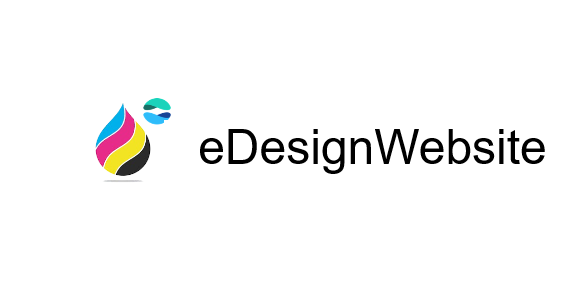
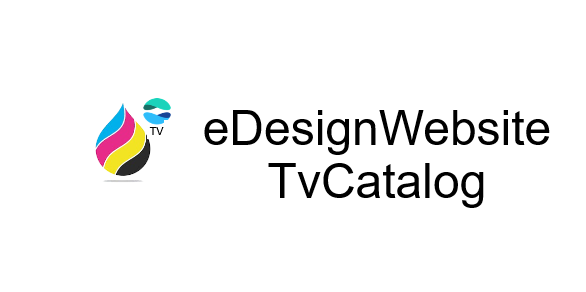
[UPD]

Changed region(s): [[0.3379, 0.3699, 0.9522, 0.7089], [0.2457, 0.4315, 0.2765, 0.4623]]

diff --git a/e_design_website_tv_catalog/static/description/index.html b/e_design_website_tv_catalog/static/description/index.html
@@ -3,11 +3,11 @@
         <div class="row align-items-center p-3">
             <div class="col-md-8">
                 <h1 class="display-4 fw-bold mb-3 text-white">
-                    <img src="icon.png" alt="eWebsiteDesign" class="img-fluid  rounded-circle me-3 bg-light" style="width: 60px; height: 60px; background: white; padding: 8px;">
-                    eWebsiteDesign
+                    <img src="icon.png" alt="eWebsiteDesignTvCatalog" class="img-fluid  rounded-circle me-3 bg-light" style="width: 60px; height: 60px; background: white; padding: 8px;">
+                    eWebsiteDesignTvCatalog
                 </h1>
                 <p class="lead mb-4">
-                    Publishes your design catalog to the public website, enabling customers to browse and search available designs
+                    Publishes a static page for show a dinamic data from designs
                 </p>
             </div>
             <div class="col-md-4 text-center">
@@ -27,70 +27,20 @@
                     <div class="row h-100 p-2">
                         <div class="card p-0">
                             <div class="row p-3">
-                                <h3 class="card-title fw-bold">Catalog Design</h3>
-                                <p class="card-text small text-muted">The catalog includes live search, category filtering, and an interactive image gallery for each design.</p>
-                            </div>
-                            <hr class="mt-0"/>
-                            <div class="row justify-content-start p-1">
-                                <div class="col-xl-6">
-                                    <img src="assets/screenshots/1.png" class="card-img-top" alt="Product Design Link">
-                                </div>
-                                <div class="col-xl-6">
-                                    <img src="assets/screenshots/2.png" class="card-img-top" alt="Design App">
-                                </div>
+                                <h3 class="card-title fw-bold">TV Catalog Design</h3>
+                                <p class="card-text small text-muted">Satic Page efor Design Data</p>
                             </div>
                         </div>
                     </div>
-                </div>
-            </div>
-        </section>
-
-        <section class="mb-5">
-            <h2 class="h3 fw-bold mb-4 text-center">Key Features</h2>
-            <div class="row g-3 justify-content-center">
-                <div class="col-md-6">
-                    <div class="d-flex p-3 bg-light rounded">
-                        <div class="flex-shrink-0 me-3">
-                            <i class="bi bi-check-circle-fill text-success" style="font-size: 1.5rem;"></i>
-                        </div>
-                        <div>
-                            <h6 class="fw-bold mb-1">Public Catalog</h6>
-                            <p class="small text-muted mb-0">Adds a /catalog endpoint with dedicated pages for browsing designs, categories, and associated products</p>
+                    <div class="row h-100 p-2">
+                        <div class="card p-0">
+                            <div class="row p-3">
+                                <h3 class="card-title fw-bold">URL</h3>
+                                <p class="card-text small text-muted">Deploy URL: '/tv/catalog'. Is not a public page, requires user authentication</p>
+                            </div>
                         </div>
                     </div>
-                </div>
-                <div class="col-md-6">
-                    <div class="d-flex p-3 bg-light rounded">
-                        <div class="flex-shrink-0 me-3">
-                            <i class="bi bi-check-circle-fill text-success" style="font-size: 1.5rem;"></i>
-                        </div>
-                        <div>
-                            <h6 class="fw-bold mb-1">Dynamic Frontend</h6>
-                            <p class="small text-muted mb-0">Built with modern OWL components for responsive, interactive user experience</p>
-                        </div>
-                    </div>
-                </div>
-                <div class="col-md-6">
-                    <div class="d-flex p-3 bg-light rounded">
-                        <div class="flex-shrink-0 me-3">
-                            <i class="bi bi-check-circle-fill text-success" style="font-size: 1.5rem;"></i>
-                        </div>
-                        <div>
-                            <h6 class="fw-bold mb-1">Advanced Filtering</h6>
-                            <p class="small text-muted mb-0">Users can filter by product or category and use live search functionality</p>
-                        </div>
-                    </div>
-                </div>
-                <div class="col-md-6">
-                    <div class="d-flex p-3 bg-light rounded">
-                        <div class="flex-shrink-0 me-3">
-                            <i class="bi bi-check-circle-fill text-success" style="font-size: 1.5rem;"></i>
-                        </div>
-                        <div>
-                            <h6 class="fw-bold mb-1">Design Detail Pages</h6>
-                            <p class="small text-muted mb-0">Each design has its own page with image gallery (Fancybox viewer) and detailed information</p>
-                        </div>
-                    </div>
+                    
                 </div>
             </div>
         </section>
@@ -99,7 +49,7 @@
             <div class="container">
                 <div class="row">
                     <div class="col-12 mt-3">
-                        <img src="assets/screenshots/gif.gif" class="card-img-top" alt="Design App">
+                        <img src="assets/screenshots/gif.gif" class="card-img-top" alt="TV Catelog Design App">
                     </div>
                 </div>
             </div>
@@ -110,7 +60,7 @@
 
 <footer class="bg-primary py-4 mt-5">
     <div class="container text-center">
-        <a href="https://github.com/acevedoesteban999/eAddons" class="btn btn-light btn-sm me-2">
+        <a href="https://github.com/acevedoesteban999/eAddons/e_design_website_tv_catalog" class="btn btn-light btn-sm me-2">
             Documantation
         </a>
     </div>

diff --git a/e_design_website/static/description/index.html b/e_design_website/static/description/index.html
@@ -110,7 +110,7 @@
 
 <footer class="bg-primary py-4 mt-5">
     <div class="container text-center">
-        <a href="https://github.com/acevedoesteban999/eAddons" class="btn btn-light btn-sm me-2">
+        <a href="https://github.com/acevedoesteban999/eAddons/e_design_website" class="btn btn-light btn-sm me-2">
             Documantation
         </a>
     </div>

diff --git a/e_design_website_tv_catalog/__init__.py b/e_design_website_tv_catalog/__init__.py
@@ -1,2 +1,27 @@
 # -*- coding: utf-8 -*-
 from . import controllers
+
+from odoo import _
+
+def _install_tv_catalog_menu_and_page(env):
+    try:
+        menu = env['website.menu'].search([('url','=','/tv/catalog')])
+        if not menu:
+            env['website.menu'].create({
+                'name': _('TV Catalog'),
+                'url': '/tv/catalog',
+            })
+    except:
+        pass
+
+def _uninstall_tv_catalog_menu_and_page(env):
+    try:
+        menu = env['website.menu'].search([
+            ('url', '=', '/tv/catalog'),
+        ])
+        if menu:
+            menu.unlink()
+
+
+    except Exception:
+        pass

diff --git a/e_design_website_tv_catalog/__manifest__.py b/e_design_website_tv_catalog/__manifest__.py
@@ -23,8 +23,11 @@
     'images': [
         'static/description/banner.png',
     ],
+    
+    'post_init_hook': '_install_tv_catalog_menu_and_page',
+    'uninstall_hook': '_uninstall_tv_catalog_menu_and_page',
     'application': False,
     'installable': True,
-    'auto_install': True,
+    'auto_install': False,
     'license': 'LGPL-3',
 }

diff --git a/e_design_website_tv_catalog/README.md b/e_design_website_tv_catalog/README.md
@@ -1,22 +1,7 @@
-# eWebsiteDesign
-#### Website Design Catalog 
-This module publishes your design catalog to the public website, enabling customers to browse and search available designs.
+# eWebsiteDesignTvCatalog
+#### Website Design Catalog for TV 
+This module publishes a static page for show a dinamic data from designs
 ----------------
-**Public catalog interface:**
-----------------
-![IAMGE](static/description/assets/screenshots/1.png)
-----------------
-**Design detail page with image gallery**
-----------------
-![IMAGE](static/description/assets/screenshots/2.png)
-----------------
-The catalog includes live search, category filtering, and an interactive image gallery for each design.
-Features
-- Public Catalog: Adds a /catalog endpoint with dedicated pages for browsing designs, categories, and associated products
-- Dynamic Frontend: Built with modern OWL components for responsive, interactive user experience
-- Advanced Filtering: Users can filter by product or category and use live search functionality
-- Design Detail Pages: Each design has its own page with image gallery (Fancybox viewer) and detailed information
-
+**TV catalog interface:**
 ----------------
 ![GIF](static/description/assets/screenshots/gif.gif)
-----------------
